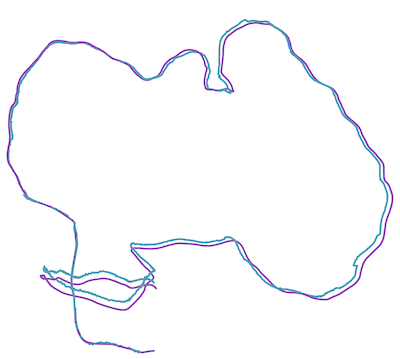
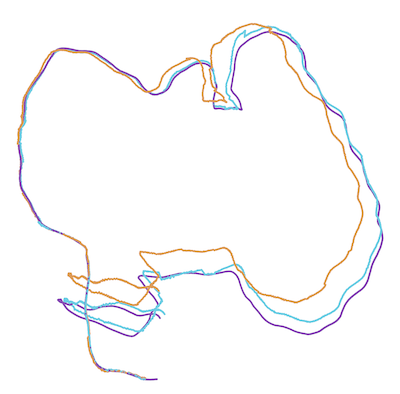
benchmark more

diff --git a/nanoslam.py b/nanoslam.py
@@ -52,7 +52,7 @@ class Dataset:
     'cx': 320.1,
     'cy': 247.6,
   }
-  
+
   def __init__(self, path: str | Path):
     self.path = Path(path)
     images = pd.read_csv(self.path / 'rgb.txt', sep=' ', comment='#', names=['timestamp', 'filename'])
@@ -400,8 +400,8 @@ class Config:
 
   abs_max_reproj_error = 3.0
 
-  reloc_window = 8
-  reloc_min_points = 100
+  reloc_window = 16
+  reloc_min_points = 120
   reloc_border = 1
   reloc_max_iter = 100
   reloc_eps = 0.1
@@ -453,7 +453,7 @@ class SLAM:
     self.keyframes = {}
     self.keyframe = None
 
-  
+
   def track_lk(self):
     config = self.config
     frame = self.frames[-1]
@@ -642,7 +642,7 @@ class SLAM:
       win_size = (config.feat_subpix_win_size, config.feat_subpix_win_size)
       criteria = (cv2.TERM_CRITERIA_COUNT | cv2.TERM_CRITERIA_EPS, config.feat_subpix_max_iter, config.feat_subpix_eps)
       uvs = cv2.cornerSubPix(img, uvs, win_size, (-1, -1), criteria)
-    
+
     for uv in uvs:
       u, v = uv
       color = keyframe.frame.img[int(v), int(u)]
@@ -731,7 +731,7 @@ class SLAM:
       self.detect_keypoints()
       self.local_bundle_adjustment()
 
-    age3d = np.median([pt.age for pt in self.points if pt.is_3d])
+    age3d = np.median([pt.age for pt in self.points if pt.is_3d] or [0])
     self.metrics['age3d'] = int(age3d) if np.isfinite(age3d) else None
 
 

diff --git a/README.md b/README.md
@@ -6,7 +6,13 @@
 
 **Getting started:** Make a directory `datasets`, download the `fr3/long_office_household` from [TUM RGB-D dataset download page](https://cvg.cit.tum.de/data/datasets/rgbd-dataset/download#freiburg3_long_office_household) and extract it.
 
+```bash
+(mkdir datasets && cd datasets && wget https://cvg.cit.tum.de/rgbd/dataset/freiburg3/rgbd_dataset_freiburg3_long_office_household.tgz && tar -xzf rgbd_*)
 ```
+
+Then run `nanoslam`.
+
+```bash
 uv sync
 uv run python nanoslam.py household --rerun
 ```
@@ -16,7 +22,7 @@ uv run python nanoslam.py household --rerun
 
 The main loop (implemented in `on_frame`) is really simple, you should read it!
 
-This algorithm is inspired by [OV²SLAM](https://arxiv.org/abs/2102.04060) but significantly simplified. It doesn't feature loop closure via place recognition but relocalization can be adapted to perform loop closure by reprojection of old 3D points. Still, it is accurate enough to complete `fr3/long_office_household` with a drift of only 7cm.  The current parameters are somewhat fine-tuned to that sequence but with a few tweaks, it can be generalized.
+This algorithm is inspired by [OV²SLAM](https://arxiv.org/abs/2102.04060) but significantly simplified. It doesn't feature loop closure via place recognition but relocalization can be adapted to perform loop closure by reprojection of old 3D points. Still, it is accurate enough to complete `fr3/long_office_household` without getting lost, with a drift between 7-40cm. The current parameters are somewhat fine-tuned to that sequence but with a few tweaks, it can be generalized.
 
 
 <p align="center"><img src="assets/freiburg3_long_office_household.png"/><p>
